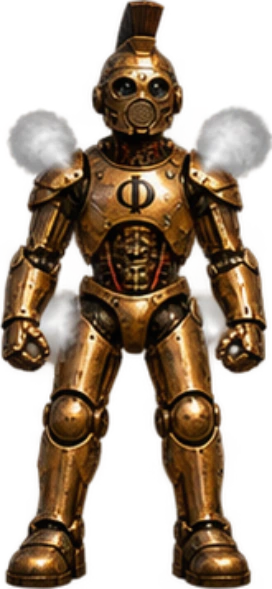
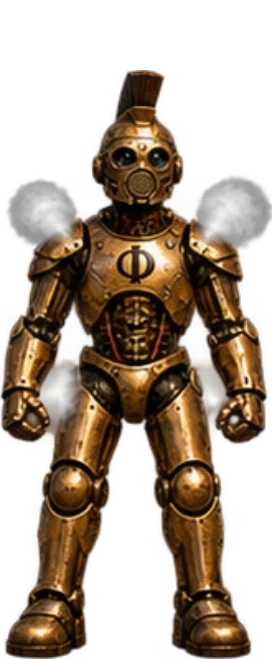
Character sizing fixed
fixed multiple character sizes and some other minor issues, added a menu after fights

diff --git a/js/fighter.js b/js/fighter.js
@@ -23,6 +23,10 @@ const ANIM_FOLDER = {
   lightAtk: 'light-punch', heavyAtk: 'heavy-punch',
   crouchLightAtk: 'crouch-light', crouchHeavyAtk: 'crouch-heavy',
   special: 'special', knockdown: 'defeat', victory: 'victory',
+  // victory2/3/4: alternate victory-pose variants, randomly picked between at round
+  // win (see startState()) -- only characters with more than one variant declare
+  // these in CHAR_ANIMS; everyone else just has 'victory'.
+  victory2: 'victory2', victory3: 'victory3', victory4: 'victory4',
   block: 'block', hitstun: 'hitstun',
 };
 
@@ -79,19 +83,21 @@ const CHAR_ANIMS = {
   // Full moveset. A steampunk gladiator-android -- light/heavy attacks are an
   // arm-mounted cannon rather than a punch, and the special summons a ghostly
   // historical/philosophical figure who hands him a stone tablet to smash. His
-  // `victory` is 4 source sheets (8 frames each) concatenated into one 32-frame
-  // sequence rather than picked from -- each sheet is the same choreography with a
-  // different figure appearing in the smoke, and getVictoryFrameIndex() doesn't care
-  // how long an animation is, so nothing stopped playing all of them as one longer
-  // celebration instead of discarding three of the four. That whole victory batch
-  // needed its own scale correction relative to idle (~1.65x) -- see the note above
-  // the victory export in _tools/export_phi.html. His special has no hand-tuned
-  // hitbox/dash choreography yet -- borrows White Noise's, like the others.
+  // victory has 4 variants (`victory`/`victory2`/`victory3`/`victory4`) from 4
+  // user-supplied sheets that are the same choreography with a different figure
+  // appearing in the smoke each time -- one is picked at random on each round win
+  // (see startState()) rather than always playing the same one or concatenating all
+  // 4 into one animation (an earlier approach here that made him visibly change
+  // scale mid-celebration whenever playback crossed from one source sheet's frames
+  // into the next, since each sheet's own internal scale wasn't independently
+  // verified against the others closely enough -- see the README note on this).
+  // His special has no hand-tuned hitbox/dash choreography yet -- borrows White
+  // Noise's, like the others.
   phi: {
     idle: 5, walk: 8, crouch: 3, jumpNeutral: 5, jumpForward: 5,
     jumpLightAtk: 5, jumpHeavyAtk: 5, lightAtk: 5, heavyAtk: 5,
     crouchLightAtk: 5, crouchHeavyAtk: 5, special: 8, knockdown: 5,
-    victory: 32, block: 4, hitstun: 4,
+    victory: 8, victory2: 8, victory3: 8, victory4: 8, block: 4, hitstun: 4,
   },
 };
 
@@ -100,14 +106,23 @@ const SPECIAL_BOUNDARIES = {
   seth: [8,16,26,32,40,50,58,66,72],
   liberty: [8,16,26,33,40,46,53,61,68,75,84,92,98],
 };
-const SPECIAL_DUR = { seth: 72, liberty: 98 };
+// P.H.I.'s special was reported as "passing too quickly" -- literally duplicating his
+// 8 special frames wouldn't fix that on its own, since getSpecialFrameIndex() ->
+// getProgressFrame() maps the *whole* SPECIAL_DUR evenly across however many frames
+// exist (progress = stateTimer/stateDur), so doubling the frame count without also
+// raising stateDur just holds each of twice-as-many identical frames for half as long
+// -- net zero change in how long anything appears on screen. Raising his own SPECIAL_DUR
+// is what actually slows it down; see the matching `phi` branch in attackHitbox() below,
+// which had to move its hit window out to match or the impact would land during an
+// earlier, now-mistimed pose once the whole animation takes longer to play out.
+const SPECIAL_DUR = { seth: 72, liberty: 98, phi: 144 };
 // Every character is rendered at a fixed 180px sprite height by default, but that
 // only lines characters up visually when their art fills a similar fraction of its
 // own 500x720 canvas. White Noise's compact hoodie-and-hood silhouette leaves more
 // empty headroom above him than Liberty Belle's flowing hair or Botanist's leaf
 // cloak do, so he renders noticeably shorter than the other two at the same 180px
 // unless corrected here. Tune per-character, not by touching the art.
-const CHAR_HEIGHT_SCALE = { seth: 1.165, ladyvoix: 0.73 };
+const CHAR_HEIGHT_SCALE = { seth: 1.165, ladyvoix: 0.73, phi: 0.767 };
 // Bumps every fighter's render size on a specific stage. Needed because a stage's front
 // layer has a hard floor on how small it can be drawn (it must still cover the canvas
 // width -- see BAYOU_FRONT_SCALE's comment in stages.js), so shrinking the room alone
@@ -116,7 +131,7 @@ const CHAR_HEIGHT_SCALE = { seth: 1.165, ladyvoix: 0.73 };
 // piano (an object whose real-world height is well known) rather than guessed by eye --
 // see the note on the piano-based calibration in stages.js above BAYOU_BAND_SCALE_K,
 // which uses the same reference.
-const STAGE_HEIGHT_SCALE = { bayou: 1.6 };
+const STAGE_HEIGHT_SCALE = { bayou: 1.8 };
 // Which crouch frame is the settled "deepest" pose to hold on -- most characters hold
 // on their last frame, but seth's and liberty's crouch sheets are ordered differently.
 const CROUCH_HOLD_AT = { seth: 1, liberty: 2, phi: 1 };
@@ -154,7 +169,7 @@ const SIMPLE_STATE_ANIM = {
   crouchHeavyAtk: { anim: 'crouchHeavyAtk', frame: f => f.getProgressFrame('crouchHeavyAtk') },
   special:        { anim: 'special',        frame: f => f.getSpecialFrameIndex() },
   knockdown:      { anim: 'knockdown',      frame: f => f.getKnockdownFrameIndex() },
-  victory:        { anim: 'victory',        frame: f => f.getVictoryFrameIndex() },
+  victory:        { anim: f => f.victoryVariant, frame: f => f.getVictoryFrameIndex() },
   hitstun:        { anim: 'hitstun',        frame: f => f.getProgressFrame('hitstun') },
   block:          { anim: 'block',          frame: f => f.getBlockFrameIndex() },
 };
@@ -205,6 +220,7 @@ class Fighter {
     this.comboCount = 0;
     this.comboTimer = 0;
     this.wins = 0;
+    this.victoryVariant = 'victory'; // which victory sub-animation is playing -- see startState()
   }
 
   // Multiplier for anything that must visually track the drawn sprite (hitboxes,
@@ -247,6 +263,13 @@ class Fighter {
         }
         return null;
       }
+      if (this.spriteKey === 'phi') {
+        // his special takes twice as long to play out as the shared default (see
+        // SPECIAL_DUR.phi) so the tablet-smash impact -- frame 5 of his 8 -- now
+        // lands around tick 90-108 instead of the default window's 30-50
+        if (this.stateTimer < 90 || this.stateTimer > 108) return null;
+        return { x: this.x - (this.w*s)/2, y: this.y - this.h*s, w: this.w*s, h: this.h*s, dmg: 20, kb: 20 };
+      }
       // active from the tail of the windup through the impact frame
       if (this.stateTimer < 30 || this.stateTimer > 50) return null;
       return { x: this.x - (this.w*s)/2, y: this.y - this.h*s, w: this.w*s, h: this.h*s, dmg: 20, kb: 20 };
@@ -267,6 +290,13 @@ class Fighter {
 
   startState(s, dur) {
     this.state = s; this.stateTimer = 0; this.stateDur = dur; this.hitLock = false;
+    if (s === 'victory') {
+      // pick one victory variant at random each win, for characters that have more
+      // than one (see the note on P.H.I.'s victory in CHAR_ANIMS) -- characters with
+      // only a plain 'victory' just always get that one back.
+      const variants = ['victory', 'victory2', 'victory3', 'victory4'].filter(v => this.anim(v));
+      this.victoryVariant = variants[Math.floor(Math.random() * variants.length)];
+    }
   }
 
   update(dt, opponent) {
@@ -309,7 +339,20 @@ class Fighter {
         }
 
         if (keys[c.jump] && grounded) {
-          this.vy = -13.5;
+          const s = this.displayScale();
+          this.vy = -13.5 * s;
+          // A character rendered near canvas-height-tall (the bayou's 1.8x display
+          // scale leaves a standing fighter with well under 100px of headroom above
+          // their own head) can't fit a fully proportional jump arc on screen at
+          // all -- even the *original*, completely unscaled jump height would push
+          // their head off the top of the canvas. Clamp the impulse (and therefore
+          // the scaled gravity below it) to whatever arc still leaves a small margin
+          // above the canvas top, so the jump scales up as much as geometrically
+          // possible instead of scaling exactly with displayScale() and clipping.
+          const drawH = 180 * s;
+          const maxRise = Math.max(60, GROUND_Y - 10 - drawH);
+          const maxVy = -Math.sqrt(2 * (0.63 * s) * maxRise);
+          this.vy = Math.max(this.vy, maxVy); // vy is negative; smaller magnitude wins
           this.jumpDirectional = moveDir !== 0;
           this.airAttack = null;
           this.airAttackUsed = false;
@@ -359,9 +402,13 @@ class Fighter {
       if (this.airAttackTimer > 20) this.airAttack = null; // animation finished; normal jump pose resumes for the rest of the arc
     }
 
-    // airborne physics
+    // airborne physics -- gravity scales with displayScale() too, alongside the jump
+    // impulse above, so a bigger-rendered fighter (CHAR_HEIGHT_SCALE or a stage's
+    // STAGE_HEIGHT_SCALE) jumps proportionately higher instead of the same absolute
+    // pixel height looking short relative to their now-bigger sprite. Scaling both by
+    // the same factor keeps hang time unchanged (only the height of the arc grows).
     if (this.state === 'jump' || this.y < GROUND_Y) {
-      this.vy += 0.63;
+      this.vy += 0.63 * this.displayScale();
       this.y += this.vy;
       if (this.y >= GROUND_Y) { this.y = GROUND_Y; this.vy = 0; if (this.state === 'jump') this.startState('idle'); }
     }
@@ -383,6 +430,10 @@ class Fighter {
         // sustained dash across the launch -> spin-kicks -> recover phases
         const dashing = this.stateTimer >= 26 && this.stateTimer < 75;
         this.vx = dashing ? this.facing * 4.5 : 0;
+      } else if (this.spriteKey === 'ladyvoix') {
+        // her mic-stand soundwave blast is stationary -- it radiates outward from
+        // where she's standing rather than closing distance like a melee special
+        this.vx = 0;
       } else {
         const dashing = this.stateTimer >= 26 && this.stateTimer < 40;
         this.vx = dashing ? this.facing * 14 : 0;
@@ -471,6 +522,13 @@ class Fighter {
     return !!(a && a.loaded >= a.count);
   }
 
+  // SIMPLE_STATE_ANIM entries can give `anim` as a plain string, or (for a state with
+  // multiple randomly-picked variants, like a multi-take victory pose) a function of
+  // the fighter that returns the variant name chosen in startState().
+  resolveAnimName(anim) {
+    return typeof anim === 'function' ? anim(this) : anim;
+  }
+
   drawSpriteFrame(ctx, img) {
     const drawH = 180 * (CHAR_HEIGHT_SCALE[this.spriteKey] || 1) * (STAGE_HEIGHT_SCALE[currentStage] || 1), drawW = drawH * (img.width / img.height);
     ctx.save();
@@ -506,7 +564,7 @@ class Fighter {
 
   getVictoryFrameIndex() {
     // charge-up spread over ~7 ticks/frame, holds on the final peak-charge frame after
-    const count = this.anim('victory').count;
+    const count = this.anim(this.victoryVariant).count;
     return Math.min(count - 1, Math.floor(this.stateTimer / 7));
   }
 
@@ -559,9 +617,10 @@ class Fighter {
         this.drawSpriteFrame(ctx, this.anim(animName).imgs[frameIdx]);
         drawn = true;
       }
-    } else if (this.hasSprite && SIMPLE_STATE_ANIM[this.state] && this.animReady(SIMPLE_STATE_ANIM[this.state].anim)) {
+    } else if (this.hasSprite && SIMPLE_STATE_ANIM[this.state] && this.animReady(this.resolveAnimName(SIMPLE_STATE_ANIM[this.state].anim))) {
       const cfg = SIMPLE_STATE_ANIM[this.state];
-      this.drawSpriteFrame(ctx, this.anim(cfg.anim).imgs[cfg.frame(this)]);
+      const animName = this.resolveAnimName(cfg.anim);
+      this.drawSpriteFrame(ctx, this.anim(animName).imgs[cfg.frame(this)]);
       drawn = true;
     }
 

diff --git a/js/stages.js b/js/stages.js
@@ -90,14 +90,21 @@ const MEMORIAL_DRAW_Y = (GROUND_Y + 20) - (MEMORIAL_STAND_Y_SOURCE * MEMORIAL_FR
 // band/gators both rendering oversized. See the two lessons on scale drift and matching
 // pixel dimensions in README.md's asset-tooling notes before changing any of these.
 
-// Front layer: the lounge interior (piano, curtains, neon). BAYOU_FRONT_SCALE is kept at
-// the minimum that still covers the canvas width (1000/1672 would be the exact floor;
-// this leaves a small margin) -- going smaller would open a gap at the canvas edges, so
-// making the room look smaller relative to the fighters has to happen some other way
-// (see STAGE_HEIGHT_SCALE in fighter.js, which upscales fighters specifically on this
-// stage instead).
+// Front layer: the lounge interior (piano, curtains, neon). BAYOU_FRONT_SCALE has to
+// clear a higher floor than just "covers the canvas width at rest" (1000/1672≈0.598) --
+// drawStage()'s camera pan (camOffset*0.15) can shift this layer up to ~69px off-center
+// at extreme fighter positions, so the real floor has to add that pan range on both
+// sides: FRONT_DRAW_W >= 1000 + 2*69 = 1138, i.e. BAYOU_FRONT_SCALE >= 1138/1672≈0.681.
+// The original 0.61 was only checked against the static floor and left a real gap open
+// at the screen edge whenever both fighters pushed to one side -- with nothing clearing
+// the canvas between frames, that gap showed the *previous* frame's pixels rather than
+// black, which read as a smeared/ghosted edge rather than an obvious hole. Going smaller
+// than this floor to make the room look smaller relative to the fighters isn't an option;
+// that adjustment has to happen via STAGE_HEIGHT_SCALE in fighter.js instead, which
+// upscales fighters specifically on this stage (scaled up to match, below, since making
+// the room bigger here would otherwise make fighters look relatively smaller again).
 const BAYOU_FRONT_SRC_W = 1672, BAYOU_FRONT_SRC_H = 941;
-const BAYOU_FRONT_SCALE = 0.61;
+const BAYOU_FRONT_SCALE = 0.685;
 const BAYOU_FRONT_DRAW_W = BAYOU_FRONT_SRC_W * BAYOU_FRONT_SCALE;
 const BAYOU_FRONT_DRAW_H = BAYOU_FRONT_SRC_H * BAYOU_FRONT_SCALE;
 const bayouFrontImg = new Image();
@@ -179,6 +186,15 @@ function updateBayouAnim() {
 
 function drawStage() {
   stageTime++;
+  // Defensive base fill -- nothing here clears the canvas between frames otherwise, so
+  // if a layer's coverage math is ever off (a panning gap opening at an extreme camera
+  // offset, an image still loading, etc.), the gap would show the *previous* frame's
+  // pixels instead of a plain background, which reads as a smeared/ghosted edge rather
+  // than an obvious hole. See the note on BAYOU_FRONT_SCALE's pan-range floor below for
+  // a case that actually happened.
+  ctx.fillStyle = '#000';
+  ctx.fillRect(0, 0, canvas.width, canvas.height);
+
   // camera offset: shifts subtly as fighters spread apart or cluster, driving the parallax
   const midX = (p1.x + p2.x) / 2;
   const camOffset = (midX - STAGE_CENTER_X) * -1;

diff --git a/js/characterSelect.js b/js/characterSelect.js
@@ -44,6 +44,18 @@ function applyRosterChoice(fighter, choice) {
   fighter.name = choice.name;
   fighter.color = choice.color;
   fighter.accent = choice.accent;
+  // Every one of these is an index into the *previous* character's animation frame
+  // arrays -- left stale, a value that was in-bounds there (e.g. idleFrame=5 for
+  // Liberty's 6-frame idle) can be out-of-bounds for the new character's own frame
+  // count (Seth's idle is only 4 frames) for up to ~14 ticks, until that counter's own
+  // timer happens to roll over and re-clamp it via modulo. Reachable in practice once
+  // players can return to character select mid-session and pick someone with fewer
+  // frames in some animation than whoever they just played.
+  fighter.animFrame = 0; fighter.animTimer = 0;
+  fighter.idleFrame = 0; fighter.idleTimer = 0;
+  fighter.crouchFrame = 0; fighter.crouchTimer = 0; fighter.crouchAnimTimer = 0; fighter.crouchPhase = 'idle';
+  fighter.airAttack = null; fighter.airAttackTimer = 0; fighter.airAttackUsed = false;
+  fighter.victoryVariant = 'victory';
 }
 
 function drawCharacterSelect() {
@@ -102,23 +114,29 @@ function drawCharacterSelect() {
   const choice = ROSTER[csCursor];
   const onLeft = csPhase === 'p1';
   const previewX = onLeft ? 90 : canvas.width - 90;
-  const previewSpriteH = 210;
+  // Base preview height for every character; CHAR_HEIGHT_SCALE corrects it per-character
+  // the same way drawSpriteFrame() does in-game, anchored to a fixed floor line so
+  // characters don't all render at a visually mismatched height here just because the
+  // in-game correction never got applied to this preview.
+  const baseSpriteH = 210;
+  const floorY = canvas.height - 20;
   const idleAnim = SPRITES[choice.key] && SPRITES[choice.key].idle;
   const idleReady = !!(idleAnim && idleAnim.loaded >= idleAnim.count);
   if (idleReady) {
     const frame = csPreviewFrame % idleAnim.count;
     const img = idleAnim.imgs[frame];
+    const previewSpriteH = baseSpriteH * (CHAR_HEIGHT_SCALE[choice.key] || 1);
     const drawW = previewSpriteH * (img.width / img.height);
     ctx.save();
     if (!onLeft) { ctx.translate(previewX, 0); ctx.scale(-1, 1); ctx.translate(-previewX, 0); }
-    ctx.drawImage(img, previewX - drawW / 2, canvas.height - previewSpriteH - 20, drawW, previewSpriteH);
+    ctx.drawImage(img, previewX - drawW / 2, floorY - previewSpriteH, drawW, previewSpriteH);
     ctx.restore();
   }
   const nameLogo = choice.nameLogoImg;
   if (nameLogo && nameLogo.complete && nameLogo.naturalWidth > 0) {
     const logoH = 60;
     const logoW = logoH * (nameLogo.width / nameLogo.height);
-    const logoY = (canvas.height - previewSpriteH - 20) - logoH - 8;
+    const logoY = (canvas.height - baseSpriteH - 20) - logoH - 8;
     ctx.drawImage(nameLogo, previewX - logoW / 2, logoY, logoW, logoH);
   }
 

diff --git a/js/game.js b/js/game.js
@@ -89,8 +89,17 @@ function drawHUD() {
     ctx.textAlign = 'center';
     const winner = p1.hp > p2.hp ? p1.name : p2.hp > p1.hp ? p2.name : 'DRAW';
     ctx.fillText(winner === 'DRAW' ? 'DRAW!' : winner + ' WINS!', canvas.width/2, canvas.height/2);
-    ctx.font = '16px monospace';
-    ctx.fillText('Next round starting...', canvas.width/2, canvas.height/2 + 40);
+    if (roundOverTimer <= 0) {
+      ctx.font = 'bold 18px monospace';
+      ctx.fillStyle = '#ffd54a';
+      ctx.fillText('1  —  REMATCH', canvas.width/2, canvas.height/2 + 44);
+      ctx.fillStyle = '#7c4dff';
+      ctx.fillText('2  —  CHARACTER SELECT', canvas.width/2, canvas.height/2 + 76);
+    } else {
+      ctx.font = '16px monospace';
+      ctx.fillStyle = '#fff';
+      ctx.fillText('get ready...', canvas.width/2, canvas.height/2 + 40);
+    }
   }
 }
 
@@ -202,8 +211,10 @@ function loop() {
   } else {
     p1.stateTimer++;
     p2.stateTimer++;
-    roundOverTimer--;
-    if (roundOverTimer <= 0) resetRound();
+    if (roundOverTimer > 0) roundOverTimer--;
+    // once the grace period ends, the rematch/character-select prompt (drawn in
+    // drawHUD) waits for the player to pick -- see the Digit1/Digit2 handling in
+    // input.js -- instead of auto-continuing like it used to.
   }
 
   drawStage();

diff --git a/js/input.js b/js/input.js
@@ -44,5 +44,17 @@ window.addEventListener('keydown', e => {
     }
     return;
   }
+  // rematch / character-select prompt, shown once the post-round grace period ends
+  // (see checkRoundEnd() and the roundOver block in drawHUD())
+  if (roundOver && roundOverTimer <= 0) {
+    if (e.code === 'Digit1') {
+      resetRound();
+    } else if (e.code === 'Digit2') {
+      roundOver = false;
+      p1.wins = 0; p2.wins = 0;
+      characterSelectActive = true; csPhase = 'p1'; csCursor = 0;
+    }
+    return;
+  }
 });
 window.addEventListener('keyup', e => { keys[e.code] = false; });

diff --git a/js/combat.js b/js/combat.js
@@ -44,7 +44,9 @@ function checkRoundEnd() {
   if (roundOver) return;
   if (p1.hp <= 0 || p2.hp <= 0 || roundTimer <= 0) {
     roundOver = true;
-    roundOverTimer = 180;
+    // brief grace period before the rematch/character-select prompt accepts input,
+    // so the winner announcement has a moment to register before anything's pressable
+    roundOverTimer = 45;
     if (p1.hp > p2.hp) { p1.wins++; p1.startState('victory', 999); }
     else if (p2.hp > p1.hp) { p2.wins++; p2.startState('victory', 999); }
   }
